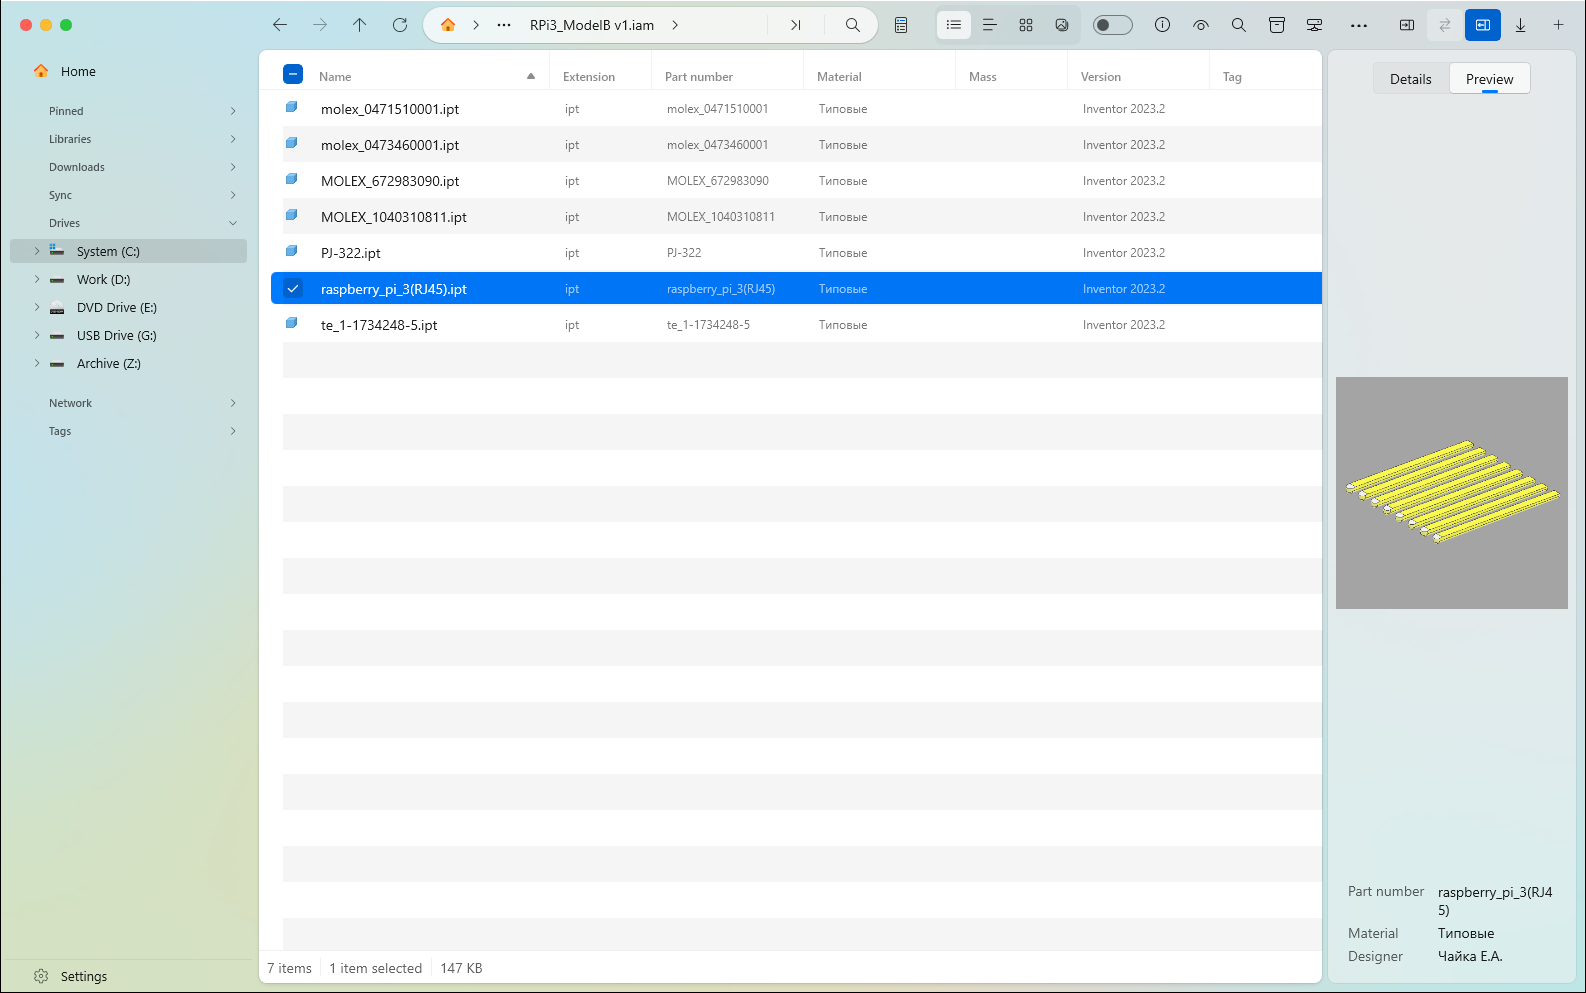
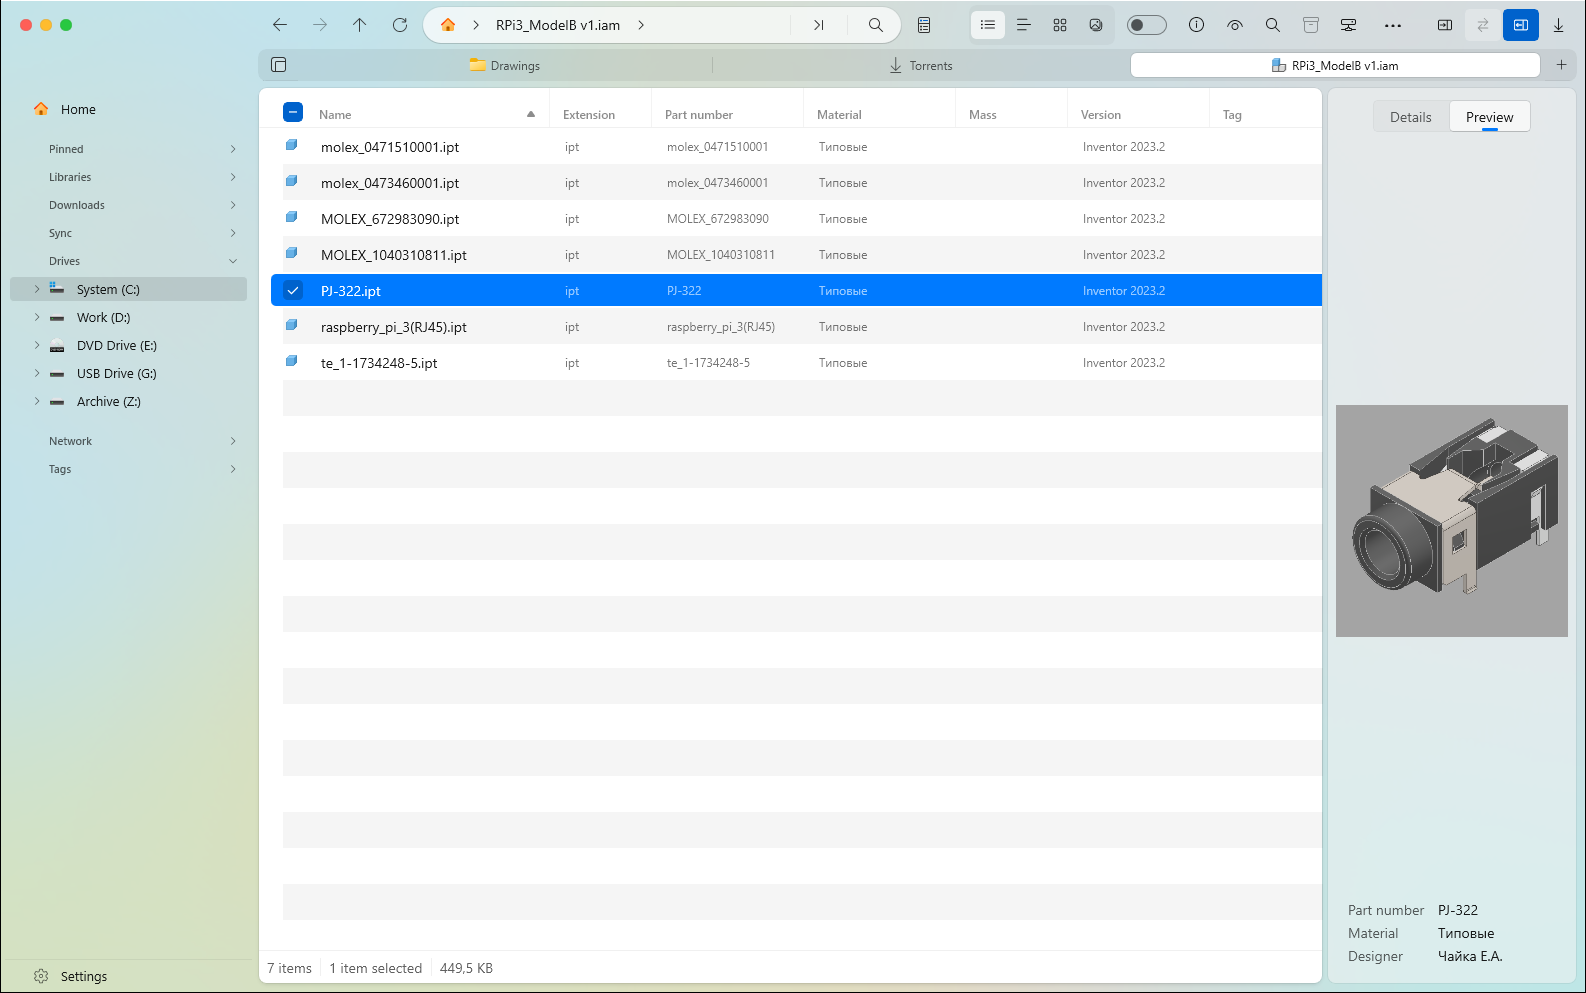
Обзор: настоящие снимки Illustrator/CorelDRAW и модели вместо заглушек
Illustrator и CorelDRAW показывались в обзоре без доказательства — теперь
скриншот с обоими файлами: свой .ai (обычный PDF, без сторонних строк) и
официальный учебный образец CoffeeShop.cdr с сайта Corel. Снимок модели
заменён на разъём PJ-322 с настоящими материалами — нагляднее прежнего.
Обновлены и снимки быстрого просмотра/торрентов после вчерашних правок.

diff --git a/docs/review.en.md b/docs/review.en.md
@@ -76,7 +76,9 @@ Part number, material, mass, and the exact version of the CAD program the file w
 
 **Limitation.** Old-style Illustrator files (PostScript-based, not PDF-compatible) aren't read — there's no PDF inside them to draw. Plain EPS is not supported yet: every EPS file tested (five, including public samples) turned out to carry no embedded picture at all, and nothing was written against files that couldn't be verified against.
 
-**Evidence.** Tested against a reader's own Illustrator file, two CorelDRAW documents from different eras, and a public Corel sample file.
+**Evidence.** Tested against a reader's own Illustrator file, two CorelDRAW documents from different eras, and a public Corel sample file. The screenshot below shows an Illustrator file and [Corel's own official tutorial sample](https://product.corel.com/en/draw/10/Tutorials/Rave/html_docs/htmlpics/CoffeeShop.cdr), both open in the folder with no CorelDRAW or Illustrator installed on this machine.
+
+![An .ai and a .cdr file shown as thumbnails in a folder](screenshots/en/12-artwork-folder.png)
 
 ## Collections
 
@@ -147,8 +149,6 @@ Files already has two panes; this fork adds what Total Commander and Norton Comm
 ## Quick preview
 
 Press Space (or F3) on a selected file to see it full-size in an overlay, without opening a tab or a separate app — the same slot other file managers use for Quick Look-style previews.
-
-**Limitation.** The preview is currently offset slightly to the right in the overlay window; a cosmetic issue being fixed.
 
 ![A DXF drawing shown in the quick-preview overlay](screenshots/en/06-quick-preview.png)
 
